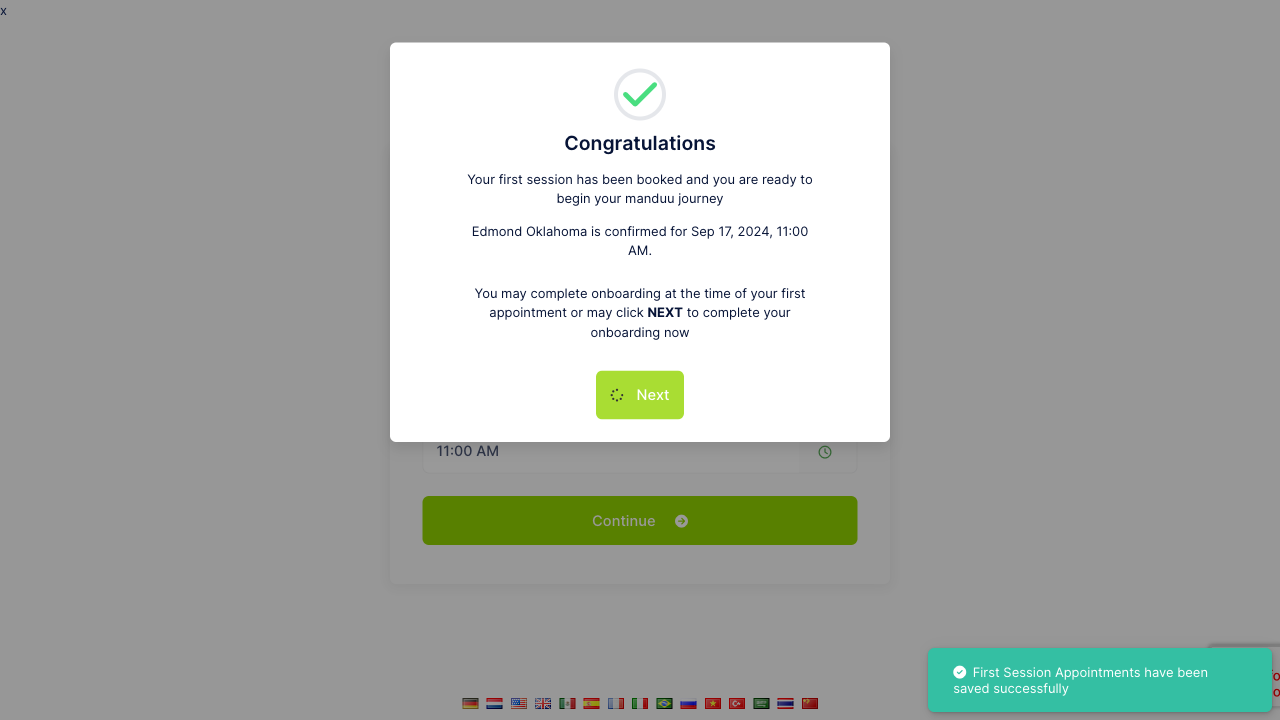
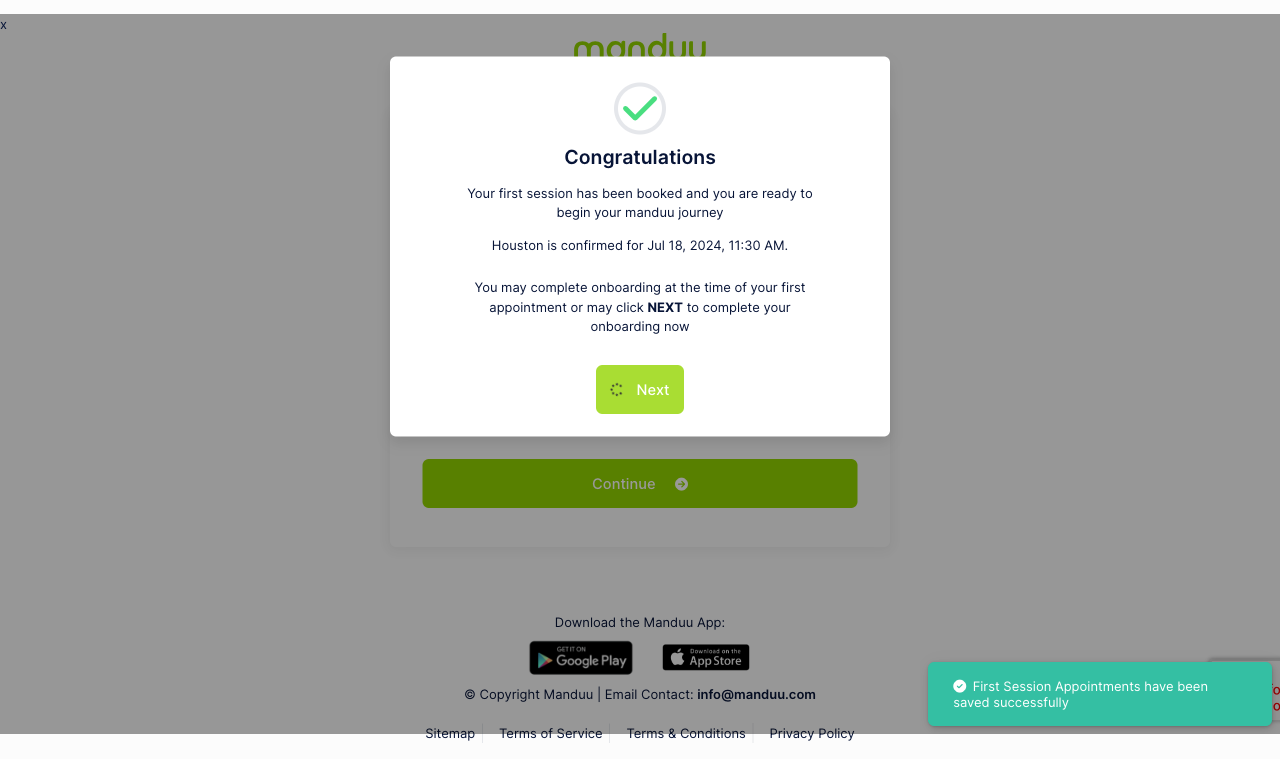
testin

Changed region(s): [[0.2812, 0.3667, 0.7188, 0.7639], [0.0, 0.7944, 1.0, 1.0], [0.0, 0.0, 1.0, 0.3361]]

diff --git a/tests/newonboarding.spec.ts b/tests/newonboarding.spec.ts
@@ -4,16 +4,16 @@ import { allure } from "allure-playwright";
 
 
 
-const email = 'manduu.test106@gmail.com';
+const email = 'manduu.test128@gmail.com';
 const password = 'TestUser@1'
-const PhoneNumber = '056-100-1111';
+const PhoneNumber = '056-128-1111';
 const fName = 'test';
 const lName ='automate'
 const tt ='me'
 const t ='me'
 
-const selectStu = 'Edmond Oklahoma';
-const SelectedDate ='09/17/2024'
+const selectStu = 'Houston';
+const SelectedDate ='07/18/2024'
 let selectedTime: string | null = null;
 //const CalendarSelectedDate = 17 September, 2024
 // Convert selected date to calendar format
@@ -73,26 +73,38 @@ test('Executed first appointment', async ({page}) => {
   await page.fill('[formcontrolname="selectedDate"]', CalendarSelectedDate);
 
  await page.getByRole('button', { name: 'Select studio ' }).click();
- await page.locator('.dropdown-item').getByText('Edmond Oklahoma').click();
+//  await page.locator('.dropdown-item').getByText(selectStu).click();
+await page.locator('.dropdown-item', { hasText: selectStu }).click();
 
 
 //  await page.locator('div.fc-event-custom-info:has-text("${selectedTime}")').locator(':has-text("${fname} ${lname}")').click();
 // //  await page.locator('div.fc-event-custom-info:has-text("07:30 AM - 09:00 AM")').locator(':has-text("${fname} ${lname}")').click();
 
-await page.locator(`div.fc-event-custom-info:has-text("${selectedTime}")`).locator(`:has-text("${fName} ${lName}")`).click();
+// await page.locator(`div.fc-event-custom-info:has-text("${selectedTime}")`).locator(`:has-text("${fName} ${lName}")`).click();
+await page.locator(`div.fc-event-custom-info:has-text("${selectedTime}")`)
+    .filter({ hasText: `${fName} ${lName}` })
+    .click();
 
 
 await page.locator('app-dropdown[placeholder="Type"] .p-dropdown-trigger').click();
 await page.locator('.p-dropdown-item:has-text("First Appointment")').click();
 
 // Click on the dropdown trigger associated with the placeholder "Status"Select the 'Executed' option from the opened dropdown menu
-await page.locator('app-dropdown[placeholder="Status"] .p-dropdown-trigger').click();
-await page.locator('.p-dropdown-item:has-text("Executed")').click();
+// await page.locator('app-dropdown[placeholder="Status"] .p-dropdown-trigger').click();
+// await page.locator('.p-dropdown-item:has-text("Executed")').click();
+// Click on the dropdown trigger associated with the placeholder "Status"
+// await page.locator('app-dropdown[placeholder="Status"] .p-dropdown-trigger').click();
+
+// Select the 'Executed' option from the opened dropdown menu
+await page.locator('app-dropdown[placeholder="Status"] .p-dropdown-item:has-text("Executed")').click();
+
 
 await page.locator('app-dropdown[placeholder="Personal coach / Trainer"] .p-dropdown-trigger').click();
-await page.locator('.p-dropdown-item:has-text("Trainer Test")'). click();
+// await page.locator('.p-dropdown-item:has-text("test manduu")'). click();
   // await page.locator('span[aria-label="Sparki Napier"]').click();
 
+  // await page.getByLabel('test manduu', { exact: true }).click();
+  await page.locator('.p-dropdown-item').filter({ hasText: /^test manduu$/ }).click();
 
 
 await page.locator('app-text-area').filter({ hasText: 'Client Memo *' }).getByRole('textbox').fill('This whole process has been automated, to make things faster and to avoid mistakes, this sessions will be deleted after the testing: So as part of the onboarding admin is supposed to executed a user first appointment');
@@ -154,7 +166,7 @@ async function selectStudio(page: any) {
  // Fill in the scheduled date.
 async function fillScheduledDate(page: any) {
    //await page.fill('#ScheduledDate', '05/07/2024');
-   await page.fill('xpath=//input[@id="ScheduledDate"]','09/17/2024')
+   await page.fill('xpath=//input[@id="ScheduledDate"]',SelectedDate)
   // await page.click('body');
   // await page.waitForTimeout(1000);
 await page.click('text="Start Time"');
@@ -361,7 +373,8 @@ async (page:any) => {
   
        async function signContract(page:any){
         await page.getByRole('button', { name: 'Sign Contract' }).click();
-    await page.locator('div').filter({ hasText: /^Fit 8 Plan \(Manduu Oklahoma\)$/ }).click();
+    // await page.locator('div').filter({ hasText: /^Fit 8 Plan \(Manduu Oklahoma\)$/ await page.getByRole('button', { name: 'Sign Contract' }).click();}).click();
+    await page.locator('div').filter({ hasText: /^Unlimi- Fit Plan Best Value \*H \(Manduu Houston\)$/ }).click();
     await page.getByRole('button', { name: 'Continue' }).click();
     await page.getByTitle('Sign Contract').locator('canvas').click({
       position: {
@@ -391,4 +404,17 @@ async (page:any) => {
        }
       
 
+       export async function findAndClickEvent(page: any) {
+        const specificEventLocator = page.locator(`div.fc-event-custom-info:has-text("${selectedTime}")`)
+                                     .locator(`span.fc-event-custom-message:has-text("${fName} ${lName}")`);
+      
+        const eventCount = await specificEventLocator.count();
+        console.log(`Found ${eventCount} elements matching the criteria`);
+      
+        if (eventCount === 1) {
+          await specificEventLocator.click();
+        } else {
+          console.error(`Expected one event but found ${eventCount}`);
+        }
+      }
       

diff --git a/playwright.config.ts b/playwright.config.ts
@@ -15,7 +15,7 @@ export default defineConfig({
     ['html'],
     ['dot'],
     ['list'],
-    ['allure-playwright'],
+    // ['allure-playwright'],
   ],
   
  
@@ -24,9 +24,9 @@ export default defineConfig({
     // baseURL: 'http://127.0.0.1:3000',
 
     /* Collect trace when retrying the failed test. See https://playwright.dev/docs/trace-viewer */
-  trace: "on",
-  video: "on",
-  screenshot: "on",
+  screenshot: 'only-on-failure',
+  trace: 'on',
+  video: 'on'
   },
 
 
